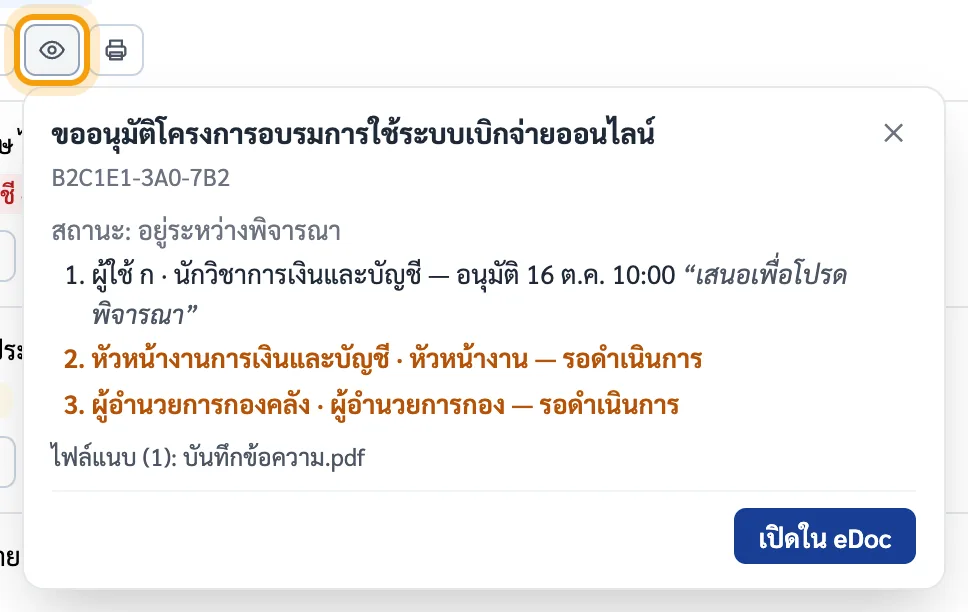
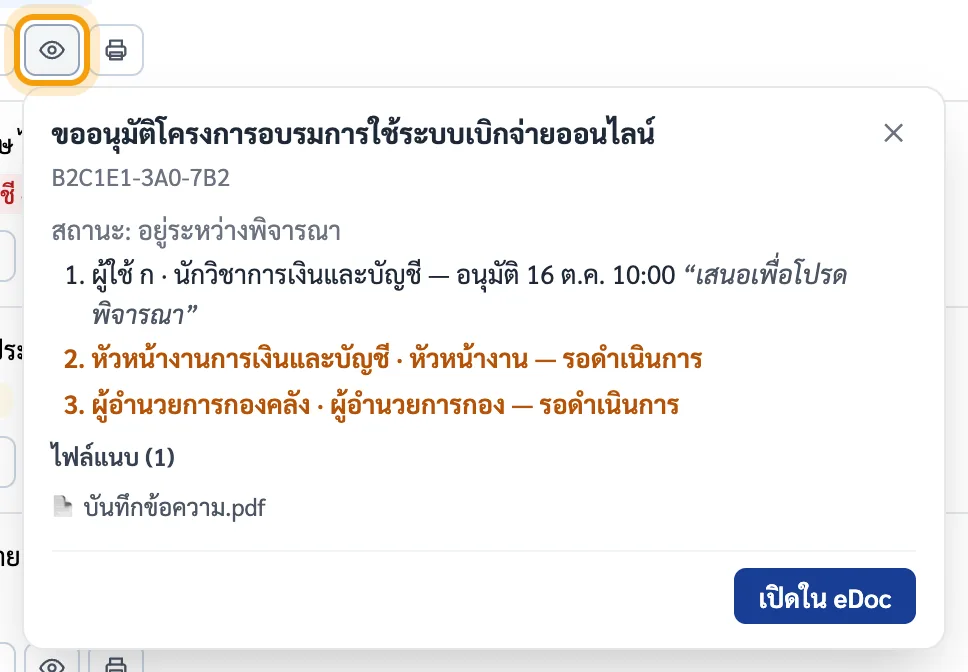
feat(extension): ดูย่อ lists the attached files one a line (a long list scrolls in the box)

diff --git a/changes.html b/changes.html
@@ -48,7 +48,7 @@
         <li data-note="2026-10-21e">ปุ่ม ดูย่อ ดูเส้นทางเอกสารโดยไม่เปิดเรื่อง · มุมมองด่วนเหนือตาราง: ติดขัด ส่งกลับ รอเกิน 3 วันทำการ ร่างที่ยังไม่ส่ง</li>
       </ul>
         <figure class="chg"><img src="img/changes/2026-10-21e-1.webp" alt="สร้างหนังสือ: แต่ละเรื่องบอกว่าอยู่ตรงไหน และมุมมองด่วนเหนือตาราง" loading="lazy" width="1136" height="482"><figcaption>สร้างหนังสือ: แต่ละเรื่องบอกว่าอยู่ตรงไหน และมุมมองด่วนเหนือตาราง</figcaption></figure>
-        <figure class="chg"><img src="img/changes/2026-10-21e-2.webp" alt="ดูย่อ: เส้นทางเอกสารโดยไม่เปิดเรื่องใน eDoc" loading="lazy" width="484" height="307"><figcaption>ดูย่อ: เส้นทางเอกสารโดยไม่เปิดเรื่องใน eDoc</figcaption></figure>
+        <figure class="chg"><img src="img/changes/2026-10-21e-2.webp" alt="ดูย่อ: เส้นทางเอกสารโดยไม่เปิดเรื่องใน eDoc" loading="lazy" width="484" height="337"><figcaption>ดูย่อ: เส้นทางเอกสารโดยไม่เปิดเรื่องใน eDoc</figcaption></figure>
       </div>
       <div class="rel" id="n2026-10-21d">
       <ul>
